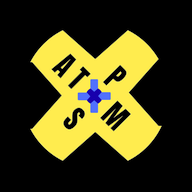
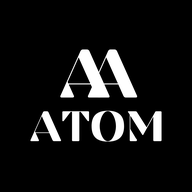
Add files via upload

diff --git a/templates/billing.html b/templates/billing.html
@@ -3,7 +3,7 @@
 <head>
 <meta charset="UTF-8">
 <meta name="viewport" content="width=device-width,initial-scale=1,maximum-scale=1,user-scalable=no,viewport-fit=cover">
-<meta name="theme-color" content="#4f46e5">
+<meta name="theme-color" content="#000000">
 <meta name="mobile-web-app-capable" content="yes">
 <meta name="apple-mobile-web-app-capable" content="yes">
 <meta name="apple-mobile-web-app-status-bar-style" content="black-translucent">
@@ -93,6 +93,13 @@
 .seg button{flex:1;padding:8px;border:0;background:0;border-radius:8px;font-weight:600;font-size:13px;cursor:pointer;color:var(--m);font-family:inherit}
 .seg button.on{background:#fff;color:var(--p);box-shadow:0 1px 4px rgba(0,0,0,.1)}
 #toast{bottom:90px}
+
+.var-list{display:flex;flex-direction:column;gap:8px}
+.var-row{display:flex;align-items:center;justify-content:space-between;gap:10px;padding:12px 14px;border:1px solid var(--bd);border-radius:12px;background:#f8fafc;cursor:pointer;font-family:inherit;width:100%;text-align:left}
+.var-row:active{background:#eef2ff;border-color:var(--p)}
+.var-row .vn{font-size:14px;font-weight:700}.var-row .vm{font-size:12px;color:var(--m);margin-top:2px}
+.var-row .vp{font-size:15px;font-weight:800;color:var(--p);flex-shrink:0}
+.pc .ph img,.ti .ico img,.sheet-item .si img{display:block;width:100%;height:100%;object-fit:cover}
 </style>
 </head>
 <body>
@@ -106,7 +113,7 @@
 </header>
 <div class="ov" id="ov"></div>
 <aside class="dr" id="dr">
-  <div class="dh"><h1>ATOM POS</h1><p>Powered by TechSerenia</p></div>
+  <div class="dh"><div class="dh-text"><h1>ATOM POS</h1><p>Fast billing for your store</p><p>Products stock and sales in one place</p><p>Works offline on your phone</p></div><img class="dh-logo" src="/static/logo-white.png" alt="ATOM"></div>
   <div class="db" id="drawerBody"></div>
 </aside>
 <div class="col">
@@ -175,6 +182,11 @@
   <div class="seg" id="coSeg"><button class="on" data-s="paid">Paid now</button><button data-s="unpaid">Unpaid / Credit</button></div>
   <button class="save" id="coSave" style="width:100%;padding:13px;border:0;border-radius:12px;background:var(--p);color:#fff;font-weight:600;font-size:14px;cursor:pointer;margin-top:8px;font-family:inherit">Confirm Sale</button>
 </div></div></div>
+
+<div class="modal" id="varPickM"><div class="mbox"><div class="mhd">Select variant <button type="button" id="varPickX">×</button></div><div class="mbd">
+  <p id="varPickTitle" style="font-size:13px;color:var(--m);margin-bottom:12px;font-weight:500"></p>
+  <div class="var-list" id="varPickList"></div>
+</div></div></div>
 <div class="toast" id="toast"></div>
 </div>
 <script src="/static/common.js"></script>
@@ -217,11 +229,14 @@ $('#btnCalc').onclick=()=>{$('#calcM').classList.add('on');calcExpr='';$('#calcD
 $('#calcX').onclick=()=>$('#calcM').classList.remove('on');
 document.addEventListener('keydown',e=>{if(!$('#calcM').classList.contains('on'))return;const k=e.key;if(k>='0'&&k<='9')calcKey(k);else if(k==='.')calcKey('.');else if(k==='+'||k==='-')calcKey(k);else if(k==='*')calcKey('×');else if(k==='/'){e.preventDefault();calcKey('÷')}else if(k==='Enter'||k==='='){e.preventDefault();calcKey('=')}else if(k==='Backspace')calcKey('⌫');else if(k==='Escape')$('#calcM').classList.remove('on');else if(k==='c'||k==='C')calcKey('AC')});
 
-async function renderPhoto(q=''){const list=await all('products');const f=q?list.filter(p=>p.name.toLowerCase().includes(q.toLowerCase())||(p.cat||'').toLowerCase().includes(q.toLowerCase())):list;const g=$('#psGrid');if(!f.length){g.innerHTML='<div class="empty" style="grid-column:1/-1">No products yet. Add one from the menu.</div>';return}g.innerHTML=f.map(p=>`<div class="pc" data-id="${p.id}">${(p.stock||0)<=0?'<div class="oos">Out of stock</div>':''}<div class="ph">${productIcon(p)}</div><div class="meta"><div class="pi">${p.name}</div><div class="pp">${fmt(p.price)}</div></div></div>`).join('');$$('.pc').forEach(c=>c.onclick=()=>addToCart(f.find(p=>p.id==c.dataset.id)))}
+async function renderPhoto(q=''){const list=await all('products');const f=q?list.filter(p=>(p.name||'').toLowerCase().includes(q.toLowerCase())||(p.cat||'').toLowerCase().includes(q.toLowerCase())||(p.barcode||'').includes(q)):list;const g=$('#psGrid');if(!f.length){g.innerHTML='<div class="empty" style="grid-column:1/-1">No products yet. Add one from Admin.</div>';return}g.innerHTML=f.map(p=>`<div class="pc" data-id="${p.id}">${(p.stock||0)<=0?'<div class="oos">Out of stock</div>':''}<div class="ph">${productIcon(p)}</div><div class="meta"><div class="pi">${p.name}</div><div class="pp">${fmt(p.price)}</div></div></div>`).join('');$$('.pc').forEach(c=>c.onclick=()=>selectProduct(f.find(p=>+p.id===+c.dataset.id)))}
 $('#psSearch').oninput=e=>renderPhoto(e.target.value);$('#psScan').onclick=()=>toast('Barcode scanning coming soon');
-async function renderText(q){const box=$('#tsList');if(!q.trim()){box.innerHTML='<div class="empty">Start typing to find a product</div>';return}const list=await all('products');const f=list.filter(p=>p.name.toLowerCase().includes(q.toLowerCase())||(p.cat||'').toLowerCase().includes(q.toLowerCase()));if(!f.length){box.innerHTML='<div class="empty">No match</div>';return}box.innerHTML=f.map(p=>`<div class="ti" data-id="${p.id}"><div class="ico">${productIcon(p)}</div><span>${p.name}${(p.stock||0)<=0?' · out of stock':''}</span><em>${fmt(p.price)}</em></div>`).join('');$$('.ti').forEach(c=>c.onclick=()=>addToCart(f.find(p=>p.id==c.dataset.id)))}
+async function renderText(q){const box=$('#tsList');if(!q.trim()){box.innerHTML='<div class="empty">Start typing to find a product</div>';return}const list=await all('products');const f=list.filter(p=>(p.name||'').toLowerCase().includes(q.toLowerCase())||(p.cat||'').toLowerCase().includes(q.toLowerCase())||(p.barcode||'').includes(q));if(!f.length){box.innerHTML='<div class="empty">No match</div>';return}box.innerHTML=f.map(p=>`<div class="ti" data-id="${p.id}"><div class="ico">${productIcon(p)}</div><span>${p.name}${(p.stock||0)<=0?' · out of stock':''}</span><em>${fmt(p.price)}</em></div>`).join('');$$('.ti').forEach(c=>c.onclick=()=>selectProduct(f.find(p=>+p.id===+c.dataset.id)))}
 $('#tsSearch').oninput=e=>renderText(e.target.value);$('#tsScan').onclick=()=>toast('Barcode scanning coming soon');
-function addToCart(p){if(!p)return;const line=cart.find(i=>i.id===p.id);if(line)line.qty++;else cart.push({id:p.id,name:p.name,price:p.price,qty:1});renderCartBar()}
+function addToCart(p){if(!p)return;const key=p.variantId?('v'+p.variantId):('p'+p.id);const line=cart.find(i=>i._key===key);if(line)line.qty++;else cart.push({_key:key,id:p.id,variantId:p.variantId||null,name:p.name,price:+p.price||0,qty:1});renderCartBar()}
+async function selectProduct(p){if(!p)return;const vars=(await all('variants')).filter(v=>+v.productId===+p.id);if(vars.length){openVariantPicker(p,vars);return}addToCart(p)}
+function openVariantPicker(p,vars){$('#varPickTitle').textContent=p.name+' — choose a variant';$('#varPickList').innerHTML=vars.map(v=>`<button type="button" class="var-row" data-vid="${v.id}"><div><div class="vn">${v.name||'Variant'}</div><div class="vm">Stock ${v.stock||0}${v.sku?' · '+v.sku:''}</div></div><div class="vp">${fmt(v.price!=null?v.price:p.price)}</div></button>`).join('');$$('#varPickList .var-row').forEach(b=>b.onclick=()=>{const v=vars.find(x=>+x.id===+b.dataset.vid);if(!v)return;$('#varPickM').classList.remove('on');addToCart({id:p.id,variantId:v.id,name:p.name+' ('+ (v.name||'Var')+')',price:v.price!=null?v.price:p.price})});$('#varPickM').classList.add('on')}
+if($('#varPickX'))$('#varPickX').onclick=()=>$('#varPickM').classList.remove('on');
 function renderCartBar(){const n=cart.reduce((a,c)=>a+c.qty,0),total=cart.reduce((a,c)=>a+c.qty*c.price,0),bar=$('#cartBar');if(!n){bar.style.display='none';return}bar.style.display='flex';$('#cartTotal').textContent=fmt(total);$('#cartCount').textContent=n+' item'+(n>1?'s':'')}
 
 function renderCoItems(){$('#coItems').innerHTML=cart.map((c,i)=>`<div class="co-item"><span>${c.name}</span><div class="qtybox"><button data-i="${i}" data-d="-1">−</button>${c.qty}<button data-i="${i}" data-d="1">+</button></div><b>${fmt(c.qty*c.price)}</b></div>`).join('');$('#coTotal').textContent=fmt(cart.reduce((a,c)=>a+c.qty*c.price,0));$$('#coItems button').forEach(b=>b.onclick=()=>{const i=+b.dataset.i;cart[i].qty+=+b.dataset.d;if(cart[i].qty<=0)cart.splice(i,1);renderCoItems();renderCartBar();if(!cart.length){$('#coM').classList.remove('on');$('#coCart').classList.remove('on')}})}
@@ -236,7 +251,7 @@ $('#coCartX').onclick=()=>$('#coCart').classList.remove('on');
 $('#cartViewToSale').onclick=openSale;
 $('#coX').onclick=()=>$('#coM').classList.remove('on');
 $('#coSeg').onclick=e=>{const b=e.target.closest('button');if(!b)return;payStatus=b.dataset.s;$$('#coSeg button').forEach(x=>x.classList.toggle('on',x===b))};
-$('#coSave').onclick=async()=>{if(!cart.length)return;const total=cart.reduce((a,c)=>a+c.qty*c.price,0),name=$('#coName').value.trim(),list=await all('transactions'),invNo=1233+list.length+1;await put('transactions',{id:crypto.randomUUID(),title:name||'Cash Sale',subtitle:`Invoice #${invNo} • ${new Date().toLocaleDateString('en-GB',{day:'2-digit',month:'short'})}`,amount:total,status:payStatus,date:new Date().toISOString(),icon:name?'person':'cart'});const products=await all('products');for(const c of cart){const p=products.find(x=>x.id===c.id);if(p){p.stock=Math.max(0,(p.stock||0)-c.qty);await put('products',p)}}cart=[];renderCartBar();$('#coM').classList.remove('on');toast('Sale recorded');await renderTx();await renderExStCounts();showView('home')};
+$('#coSave').onclick=async()=>{if(!cart.length)return;const total=cart.reduce((a,c)=>a+c.qty*c.price,0),name=$('#coName').value.trim(),list=await all('transactions'),invNo=1233+list.length+1;await put('transactions',{id:crypto.randomUUID(),title:name||'Cash Sale',subtitle:`Invoice #${invNo} • ${new Date().toLocaleDateString('en-GB',{day:'2-digit',month:'short'})}`,amount:total,status:payStatus,date:new Date().toISOString(),icon:name?'person':'cart'});const products=await all('products');const variants=await all('variants');for(const c of cart){if(c.variantId){const v=variants.find(x=>+x.id===+c.variantId);if(v){v.stock=Math.max(0,(v.stock||0)-c.qty);await put('variants',v)}}const p=products.find(x=>+x.id===+c.id);if(p){p.stock=Math.max(0,(p.stock||0)-c.qty);await put('products',p)}}cart=[];renderCartBar();$('#coM').classList.remove('on');toast('Sale recorded');await renderTx();await renderExStCounts();showView('home')};
 $('#btnHold').onclick=async()=>{if(!cart.length)return;await put('held',{items:cart,total:cart.reduce((a,c)=>a+c.qty*c.price,0),date:new Date().toISOString()});cart=[];renderCartBar();toast('Bill held');if($('#v-held').classList.contains('on'))renderHeld()};
 $('#btnClear').onclick=async()=>{if(!cart.length)return;if(!(await appConfirm('Clear','Clear all items from cart?','Clear',true)))return;cart=[];renderCartBar();toast('Cart cleared')};
 

diff --git a/static/admin.js b/static/admin.js
@@ -71,32 +71,27 @@ function openProductModal(p){
 
 /* ---------- Backup with Web Share ---------- */
 async function doBackup(){
-  const data={
-    version:2,
-    created:new Date().toISOString(),
-    products:await all('products'),
-    transactions:await all('transactions'),
-    held:await all('held'),
-    variants:await all('variants'),
-    purchases:await all('purchases')
-  };
-  const json=JSON.stringify(data);
-  const blob=new Blob([json],{type:'application/json'});
+  const data={version:2,created:new Date().toISOString(),products:await all('products'),transactions:await all('transactions'),held:await all('held'),variants:await all('variants'),purchases:await all('purchases')};
+  const blob=new Blob([JSON.stringify(data)],{type:'application/json'});
   const d=new Date().toLocaleString('en-IN',{timeZone:'Asia/Kolkata',year:'numeric',month:'2-digit',day:'2-digit'}).replace(/[\/,\s]+/g,'-');
   const filename='ATOM-backup-'+d+'.json';
+  const url=URL.createObjectURL(blob);
+  const a=document.createElement('a');a.href=url;a.download=filename;a.click();
   const file=new File([blob],filename,{type:'application/json'});
-
-  if(navigator.canShare&&navigator.canShare({files:[file]})){
+  let shared=false;
+  if(navigator.share){
     try{
-      await navigator.share({files:[file],title:'ATOM POS Backup',text:'ATOM POS database backup'});
-      toast('Shared successfully');
-      return;
-    }catch(e){if(e.name==='AbortError')return}
+      if(navigator.canShare&&navigator.canShare({files:[file]})){
+        await navigator.share({files:[file],title:'ATOM POS Backup',text:'ATOM POS database backup'});
+        shared=true;
+      }else{
+        await navigator.share({title:'ATOM POS Backup',text:'Backup file: '+filename+' (also saved to Downloads)'});
+        shared=true;
+      }
+    }catch(e){if(e.name==='AbortError'){URL.revokeObjectURL(url);return}}
   }
-  const a=document.createElement('a');
-  a.href=URL.createObjectURL(blob);a.download=filename;a.click();
-  URL.revokeObjectURL(a.href);
-  toast('Backup downloaded');
+  URL.revokeObjectURL(url);
+  toast(shared?'Shared & downloaded':'Backup downloaded');
 }
 
 async function doRestore(file){
@@ -271,7 +266,7 @@ async function renderPurchases(){
 /* ---------- Init ---------- */
 $('#btnAdd').onclick=()=>openProductModal(null);
 $('#admX').onclick=()=>{$('#admM').classList.remove('on');editId=null;photoData=null};
-$('#pPhoto').onchange=e=>{const f=e.target.files[0];if(!f)return;const r=new FileReader();r.onload=ev=>{photoData=ev.target.result;$('#pPrev').innerHTML='<img src="'+photoData+'" alt="">'};r.readAsDataURL(f)};
+$('#pPhoto').onchange=e=>{const f=e.target.files[0];if(!f)return;const r=new FileReader();r.onload=ev=>{const img=new Image();img.onload=()=>{const max=480,s=Math.min(1,max/Math.max(img.width,img.height));const c=document.createElement('canvas');c.width=Math.round(img.width*s);c.height=Math.round(img.height*s);c.getContext('2d').drawImage(img,0,0,c.width,c.height);photoData=c.toDataURL('image/jpeg',0.72);$('#pPrev').innerHTML='<img src="'+photoData+'" alt="">'};img.src=ev.target.result};r.readAsDataURL(f)};
 
 $('#pSave').onclick=async()=>{
   const n=$('#pName').value.trim(),pr=+$('#pPrice').value;

diff --git a/static/common.css b/static/common.css
@@ -4,16 +4,16 @@ input,textarea,select{user-select:text;-webkit-user-select:text}
 html,body{height:100%;font-family:"Plus Jakarta Sans",system-ui,sans-serif;background:#fff;color:var(--t);overflow:hidden;-webkit-font-smoothing:antialiased}
 .app{width:100%;max-width:480px;height:100%;margin:0 auto;background:var(--bg);display:flex;flex-direction:column;position:relative;overflow:hidden}
 @media(min-width:640px){body{background:#e2e8f0;display:flex;align-items:center;justify-content:center;padding:24px}.app{height:min(860px,94vh);border-radius:20px;box-shadow:0 25px 60px rgba(15,23,42,.18);border:1px solid #cbd5e1}}
-.top{display:flex;align-items:center;justify-content:space-between;padding:8px 14px;background:var(--p);flex-shrink:0;min-height:56px;z-index:40}
-.logo{height:52px;width:auto;max-width:180px;object-fit:contain;display:block}
+.top{display:flex;align-items:center;justify-content:space-between;padding:8px 14px;background:#000;flex-shrink:0;min-height:56px;z-index:40}
+.logo{height:44px;width:auto;max-width:160px;object-fit:contain;display:block;filter:none}
 .top-r{display:flex;gap:2px}
 .ib{width:40px;height:40px;border:0;background:0;border-radius:10px;display:flex;align-items:center;justify-content:center;cursor:pointer;color:#fff}
 .ib:active{background:rgba(255,255,255,.15)}.ib svg{width:20px;height:20px}
 .ov{position:absolute;inset:0;background:rgba(15,23,42,.4);z-index:90;opacity:0;visibility:hidden;transition:.25s}.ov.on{opacity:1;visibility:visible}
 .dr{position:absolute;top:0;right:0;width:82%;max-width:300px;height:100%;background:#fff;z-index:100;transform:translateX(100%);transition:transform .28s cubic-bezier(.4,0,.2,1);display:flex;flex-direction:column;box-shadow:-10px 0 30px rgba(0,0,0,.1)}
 .dr.on{transform:none}
-.dh{padding:28px 20px 20px;background:linear-gradient(135deg,#4f46e5,#7c3aed);color:#fff}
-.dh h1{font-size:22px;font-weight:800}.dh p{font-size:12px;opacity:.85;margin-top:4px}
+.dh{padding:22px 18px;background:#000;color:#fff;display:flex;align-items:flex-start;justify-content:space-between;gap:12px}
+.dh-text{flex:1;min-width:0}.dh h1{font-size:20px;font-weight:800;margin-bottom:8px}.dh p{font-size:12px;opacity:.88;line-height:1.45;margin:0;font-weight:500}.dh-logo{height:52px;width:auto;max-width:72px;object-fit:contain;flex-shrink:0;align-self:center}
 .db{flex:1;padding:14px;overflow-y:auto}
 .panel-toggle,.adm-link,.adm-drop{width:100%;padding:14px 16px;margin-bottom:8px;border:0;border-radius:12px;background:#f8fafc;font-size:14px;font-weight:600;text-align:left;cursor:pointer;display:flex;align-items:center;gap:12px;color:var(--t);font-family:inherit}
 .panel-toggle{background:#eef2ff;color:var(--p);font-weight:700}

diff --git a/templates/admin.html b/templates/admin.html
@@ -2,7 +2,7 @@
 <html lang="en"><head>
 <meta charset="UTF-8">
 <meta name="viewport" content="width=device-width,initial-scale=1,maximum-scale=1,user-scalable=no,viewport-fit=cover">
-<meta name="theme-color" content="#4f46e5">
+<meta name="theme-color" content="#000000">
 <meta name="mobile-web-app-capable" content="yes">
 <meta name="apple-mobile-web-app-capable" content="yes">
 <meta name="apple-mobile-web-app-title" content="ATOM POS">
@@ -60,7 +60,7 @@
   <div class="top-r"><button class="ib" id="btnMenu" aria-label="Menu"><svg viewBox="0 0 24 24" fill="none" stroke="currentColor" stroke-width="2.2"><line x1="4" y1="7" x2="20" y2="7"/><line x1="4" y1="12" x2="20" y2="12"/><line x1="4" y1="17" x2="20" y2="17"/></svg></button></div>
 </header>
 <div class="ov" id="ov"></div>
-<aside class="dr" id="dr"><div class="dh"><h1>ATOM POS</h1><p>Admin panel</p></div><div class="db" id="drawerBody"></div></aside>
+<aside class="dr" id="dr"><div class="dh"><div class="dh-text"><h1>ATOM POS</h1><p>Fast billing for your store</p><p>Products stock and sales in one place</p><p>Works offline on your phone</p></div><img class="dh-logo" src="/static/logo-white.png" alt="ATOM"></div><div class="db" id="drawerBody"></div></aside>
 <div class="col">
   <div class="vhead"><h2 id="pageTitle">Admin</h2><p id="pageSub">Catalog, stock and store controls</p></div>
   <div class="scroll">

diff --git a/templates/accountant.html b/templates/accountant.html
@@ -3,7 +3,7 @@
 <head>
 <meta charset="UTF-8">
 <meta name="viewport" content="width=device-width,initial-scale=1,maximum-scale=1,user-scalable=no,viewport-fit=cover">
-<meta name="theme-color" content="#4f46e5">
+<meta name="theme-color" content="#000000">
 <meta name="mobile-web-app-capable" content="yes">
 <meta name="apple-mobile-web-app-capable" content="yes">
 <meta name="apple-mobile-web-app-title" content="ATOM POS">
@@ -30,7 +30,7 @@
   <div class="top-r"><button class="ib" id="btnMenu" aria-label="Menu"><svg viewBox="0 0 24 24" fill="none" stroke="currentColor" stroke-width="2.2"><line x1="4" y1="7" x2="20" y2="7"/><line x1="4" y1="12" x2="20" y2="12"/><line x1="4" y1="17" x2="20" y2="17"/></svg></button></div>
 </header>
 <div class="ov" id="ov"></div>
-<aside class="dr" id="dr"><div class="dh"><h1>ATOM POS</h1><p>Accountant panel</p></div><div class="db" id="drawerBody"></div></aside>
+<aside class="dr" id="dr"><div class="dh"><div class="dh-text"><h1>ATOM POS</h1><p>Fast billing for your store</p><p>Products stock and sales in one place</p><p>Works offline on your phone</p></div><img class="dh-logo" src="/static/logo-white.png" alt="ATOM"></div><div class="db" id="drawerBody"></div></aside>
 <div class="col">
   <div class="vhead"><h2>Accountant</h2><p>Reports &amp; ledgers</p></div>
   <div class="body">

diff --git a/static/common.js b/static/common.js
@@ -18,9 +18,9 @@ const clearStore=s=>new Promise((res,rej)=>{const t=db.transaction(s,'readwrite'
 const getById=(s,id)=>new Promise((res,rej)=>{const t=db.transaction(s,'readonly').objectStore(s).get(id);t.onsuccess=()=>res(t.result);t.onerror=()=>rej(t.error)});
 
 function productIcon(p){
-  if(p&&p.photo)return `<img src="${p.photo}" alt="">`;
+  if(p&&p.photo)return '<img src="'+p.photo+'" alt="" loading="lazy">';
   const c=(p&&p.color)||COLORS[0];
-  return `<div class="ico" style="background:${c}"><svg width="20" height="20" viewBox="0 0 24 24" fill="none" stroke="#475569" stroke-width="1.8"><path d="M21 16V8a2 2 0 0 0-1-1.73l-7-4a2 2 0 0 0-2 0l-7 4A2 2 0 0 0 3 8v8a2 2 0 0 0 1 1.73l7 4a2 2 0 0 0 2 0l7-4A2 2 0 0 0 21 16z"/></svg></div>`;
+  return '<div class="ico" style="background:'+c+'"><svg width="20" height="20" viewBox="0 0 24 24" fill="none" stroke="#475569" stroke-width="1.8"><path d="M21 16V8a2 2 0 0 0-1-1.73l-7-4a2 2 0 0 0-2 0l-7 4A2 2 0 0 0 3 8v8a2 2 0 0 0 1 1.73l7 4a2 2 0 0 0 2 0l7-4A2 2 0 0 0 21 16z"/></svg></div>';
 }
 
 function ensureDlg(){

diff --git a/static/sw.js b/static/sw.js
@@ -1,5 +1,5 @@
-const CACHE='atom-pos-v5';
-const ASSETS=['/','/billing','/admin','/accountant','/static/logo.png','/static/icon-192.png','/static/icon-512.png','/static/common.css','/static/common.js','/static/admin.js','/manifest.webmanifest'];
+const CACHE='atom-pos-v6';
+const ASSETS=['/','/billing','/admin','/accountant','/static/logo.png','/static/logo-white.png','/static/icon-192.png','/static/icon-512.png','/static/common.css','/static/common.js','/manifest.webmanifest'];
 self.addEventListener('install',e=>{e.waitUntil(caches.open(CACHE).then(c=>c.addAll(ASSETS)).then(()=>self.skipWaiting()))});
 self.addEventListener('activate',e=>{e.waitUntil(caches.keys().then(keys=>Promise.all(keys.filter(k=>k!==CACHE).map(k=>caches.delete(k)))).then(()=>self.clients.claim()))});
 self.addEventListener('fetch',e=>{if(e.request.method!=='GET')return;e.respondWith(caches.match(e.request).then(cached=>{const net=fetch(e.request).then(res=>{const copy=res.clone();caches.open(CACHE).then(c=>c.put(e.request,copy));return res}).catch(()=>cached);return cached||net}))});
